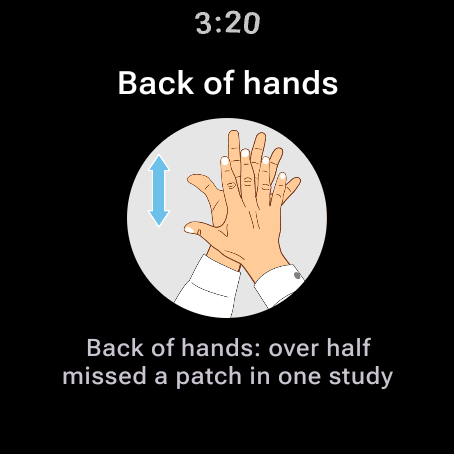
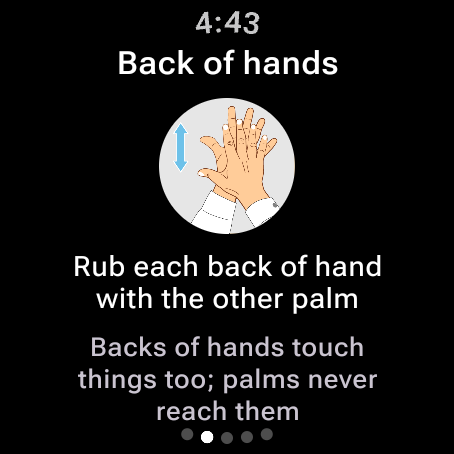
feat(ui): Step guide pager across the five Steps; retake guide screenshots

Changed region(s): [[0.1542, 0.0, 0.8634, 0.7093], [0.1233, 0.7401, 0.8634, 0.9868], [0.4317, 0.0, 0.4626, 0.0925]]

diff --git a/wear/src/main/java/com/hapticwash/ui/MainActivity.kt b/wear/src/main/java/com/hapticwash/ui/MainActivity.kt
@@ -124,6 +124,9 @@ import androidx.wear.compose.foundation.lazy.rememberTransformingLazyColumnState
 import androidx.wear.compose.material3.AlertDialog
 import androidx.wear.compose.material3.AlertDialogDefaults
 import androidx.wear.compose.material3.AppScaffold
+import androidx.wear.compose.foundation.pager.HorizontalPager
+import androidx.wear.compose.foundation.pager.rememberPagerState
+import androidx.wear.compose.material3.HorizontalPagerScaffold
 import androidx.wear.compose.material3.Button
 import androidx.wear.compose.material3.ButtonDefaults
 import androidx.wear.compose.material3.drawCircularProgressIndicator
@@ -1013,24 +1016,34 @@ private fun SummaryScreen(id: Long?, fromWash: Boolean = false, onGuide: (Int) -
     }
 }
 
-/** A Step's guide page: name, Hegasy crop (CC BY-SA, separate file; D34), one sourced why line. */
+/**
+ * The Step guides, one page per Step in canonical order, opened on the tapped Step. Swiping sideways walks the others,
+ * so one tap reaches all five (a fully covered Wash still has a way to every guide). Each page: name, Hegasy crop
+ * (CC BY-SA, separate file; D34), one-line technique, one why line.
+ */
 @Composable
 private fun GuideScreen(label: Int?) {
     if (label == null || label !in 1..5) return
+    val pager = rememberPagerState(initialPage = label - 1) { 5 }
+    HorizontalPagerScaffold(pager) {
+        HorizontalPager(pager, Modifier.fillMaxSize()) { page -> GuidePage(page + 1) }
+    }
+}
+
+@Composable
+private fun GuidePage(label: Int) {
     val colors = MaterialTheme.colorScheme
-    // Scrolls: on a small screen, or in Spanish, the title, technique and why line don't all fit at once.
     val scroll = rememberScrollState()
-    ScreenScaffold(scroll) {
-        Column(
-            Modifier.fillMaxSize().verticalScroll(scroll).padding(start = 28.dp, end = 28.dp, top = 22.dp, bottom = 36.dp).semantics(mergeDescendants = true) {},
-            verticalArrangement = Arrangement.spacedBy(8.dp),
-            horizontalAlignment = Alignment.CenterHorizontally,
-        ) {
-            Text(stringArrayResource(R.array.steps)[label - 1], style = MaterialTheme.typography.titleMedium, textAlign = TextAlign.Center)
-            Image(painterResource(STEP_ART[label - 1]), null, Modifier.size(68.dp).clip(CircleShape))
-            Text(stringArrayResource(R.array.step_how)[label - 1], style = MaterialTheme.typography.bodyMedium, textAlign = TextAlign.Center)
-            Text(stringArrayResource(R.array.step_whys)[label - 1], color = colors.onSurfaceVariant, style = MaterialTheme.typography.labelSmall, textAlign = TextAlign.Center)
-        }
+    // Scrolls: on a small screen, or in Spanish, the title, technique and why line don't all fit at once.
+    Column(
+        Modifier.fillMaxSize().verticalScroll(scroll).padding(start = 28.dp, end = 28.dp, top = 22.dp, bottom = 36.dp).semantics(mergeDescendants = true) {},
+        verticalArrangement = Arrangement.spacedBy(8.dp),
+        horizontalAlignment = Alignment.CenterHorizontally,
+    ) {
+        Text(stringArrayResource(R.array.steps)[label - 1], style = MaterialTheme.typography.titleMedium, textAlign = TextAlign.Center)
+        Image(painterResource(STEP_ART[label - 1]), null, Modifier.size(68.dp).clip(CircleShape))
+        Text(stringArrayResource(R.array.step_how)[label - 1], style = MaterialTheme.typography.bodyMedium, textAlign = TextAlign.Center)
+        Text(stringArrayResource(R.array.step_whys)[label - 1], color = colors.onSurfaceVariant, style = MaterialTheme.typography.labelSmall, textAlign = TextAlign.Center)
     }
 }
 

diff --git a/docs/UX_AUDIT.md b/docs/UX_AUDIT.md
@@ -413,5 +413,6 @@ when a Wash is cancelled ([wash_cancelled](ux/wash_cancelled.png)). Fixed on the
 no longer sticks on "stopping" after a cancel, and backing out of a guide opened from a fresh Summary
 returns to that Summary instead of a dead Wash screen.
 Retaken: summary_coaching (+scrolled), summary_mixed (+scrolled), target_check, guide_fingertips (+
-_from_focus), guide_between_fingers, credits (+scrolled). Not retaken (still the old layout): guide_palms,
-guide_back_of_hands, guide_thumbs, guide_thumbs_from_focus, guide_between_fingers_es, credits_es, summary_focus_step is now a scrolled Summary.
+_from_focus), guide_between_fingers, credits (+scrolled). Guides are now a pager across the five Steps
+(page dots, swipe sideways; edge swipe or back leaves): all five guide shots and guide_between_fingers_es
+(+ _scrolled, small round AVD) retaken. Not retaken: credits_es. summary_focus_step is now a scrolled Summary.

diff --git a/docs/SPEC-APP.md b/docs/SPEC-APP.md
@@ -274,7 +274,8 @@ notes: `research/feedback-timing-and-missed-steps.md` and `research/why-lines-an
 **Deliverables**
 
 1. **Step guide.** A detail page behind each of the five Summary rows (Step name, illustration,
-   why line, in that order), reached by tapping the row. All five rows are tappable whatever their
+   why line, in that order), reached by tapping the row, and a pager (swipe sideways, page dots) walks the other four Steps in
+   canonical order so one tap reaches every guide. All five rows are tappable whatever their
    status. History needs nothing new: its rows open the same Summary. No entry from Start or
    Settings (Start keeps its single action; Summary → page is two levels, §4.1.5). WHO's sixth
    motion ("backs of fingers to opposing palms") has no Step: it is left out, with no row and no
